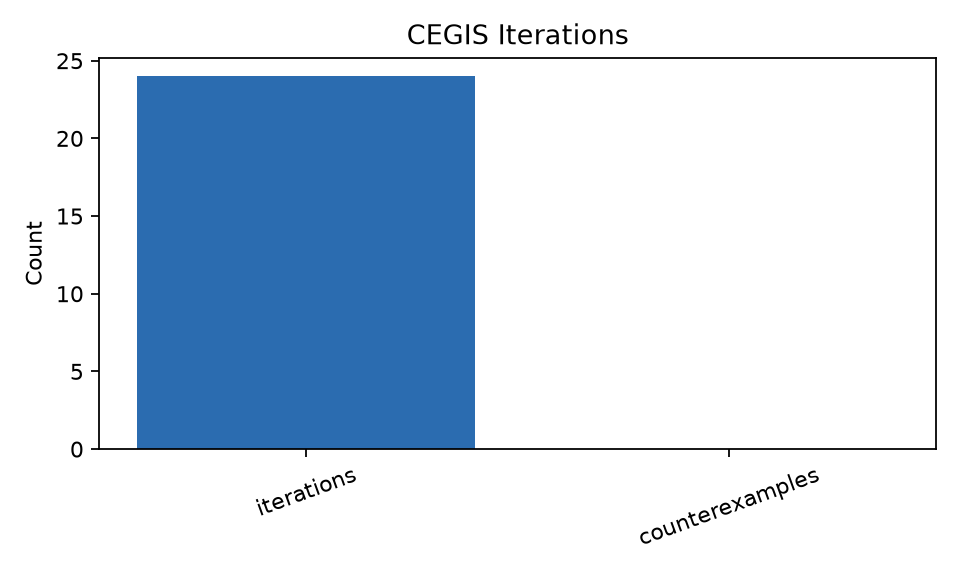
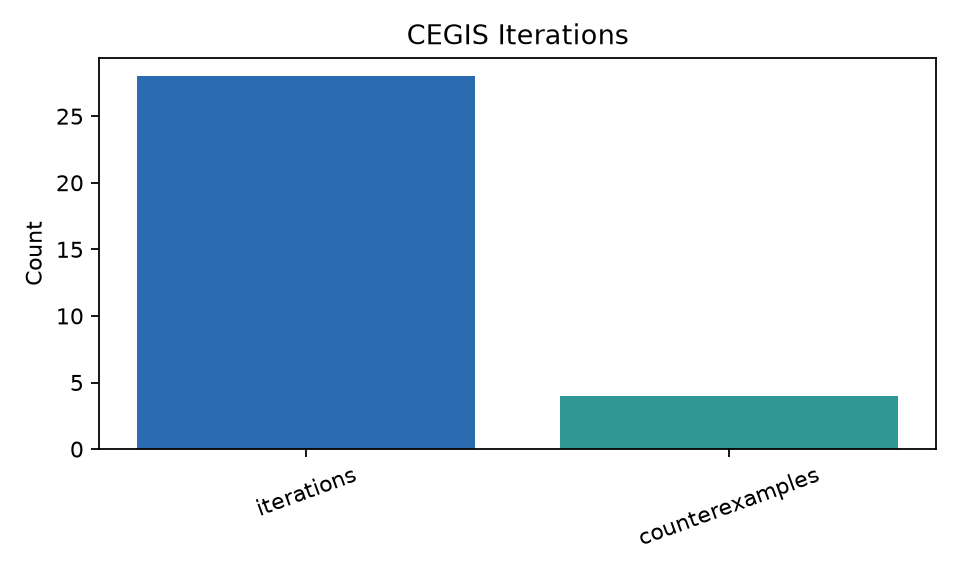
Add counterexample-refining blind CEGIS traces

diff --git a/docs/presentation/index.html b/docs/presentation/index.html
@@ -1236,7 +1236,7 @@ BO = inside R, PO or fanout outside R</pre>
     <section class="slide">
       <div class="slide-content two-column">
         <div><p class="eyebrow">Blind CEGIS</p><h2>Recover semantics without source labels</h2><ul class="large-list"><li>Audit blocks manifest family, operator, expression, bus, signedness, constants, and evaluation accuracy fields from inference.</li><li>Blind bus hypotheses are written before evaluation labels are joined.</li><li>Parametric templates are refined with counterexamples from exact region checks.</li><li>Timeouts and unsupported proofs remain unresolved.</li></ul></div>
-        <div class="metric-stack"><div><strong>488</strong><span>blind candidates</span></div><div><strong>24</strong><span>CEGIS iterations</span></div><div><strong>3</strong><span>formal region proofs</span></div></div>
+        <div class="metric-stack"><div><strong>488</strong><span>blind candidates</span></div><div><strong>28</strong><span>CEGIS iterations</span></div><div><strong>4</strong><span>counterexamples</span></div><div><strong>3</strong><span>formal region proofs</span></div></div>
       </div>
       <aside class="notes">This updates the older limitation: CEGIS is now implemented as a lightweight bounded phase. The main caveat is scalability: the committed run uses exhaustive exact proof because the SMT dependency was unavailable.</aside>
     </section>

diff --git a/tests/test_blind_semantic_cegis.py b/tests/test_blind_semantic_cegis.py
@@ -62,3 +62,16 @@ def test_expression_rtl_emission_from_parametric_candidate():
     assert rows[0]["generated_without_ground_truth"] == "true"
     assert rows[0]["rtl_text"]
     assert json.loads(rows[0]["expression_json"])["op"]
+
+
+def test_committed_cegis_trace_contains_counterexample_refinement():
+    path = Path(__file__).resolve().parents[1] / "results" / "blind_semantic_cegis" / "cegis_iterations.csv"
+    if not path.exists():
+        pytest.skip("blind CEGIS results have not been generated")
+    import csv
+
+    with path.open(newline="", encoding="utf-8") as fh:
+        rows = list(csv.DictReader(fh))
+    cex_rows = [row for row in rows if row["solver_status"] == "sat"]
+    assert cex_rows
+    assert all(int(row["examples_after"]) > int(row["examples_before"]) for row in cex_rows)

diff --git a/blind_semantic_cegis.py b/blind_semantic_cegis.py
@@ -291,7 +291,7 @@ def candidate_rows(region_id: str, input_buses: list[BlindBus], output_width: in
     return rows
 
 
-def _deterministic_examples(input_buses: list[BlindBus], *, count: int = 8) -> list[dict[str, int]]:
+def _deterministic_examples(input_buses: list[BlindBus], *, count: int = 1) -> list[dict[str, int]]:
     domains = [range(1 << min(bus.width, 4)) for bus in input_buses]
     examples = []
     for values in itertools.islice(itertools.product(*domains), count):

diff --git a/docs/blind_cegis_semantic_boundary_reconstruction.md b/docs/blind_cegis_semantic_boundary_reconstruction.md
@@ -70,7 +70,7 @@ result is preserved in `results/semantic_grafting/semantic_graft_funnel.csv`.
 ## Results
 
 Committed CSVs under `results/blind_semantic_cegis/` report 488 bounded
-parametric candidates, 24 CEGIS iterations, 3 formally verified regions by
+parametric candidates, 28 CEGIS iterations, 4 incorporated counterexamples, 3 formally verified regions by
 exhaustive region proof, 3 proven semantic expressions considered for grafting,
 and 0 accepted graph-active semantic grafts.
 

diff --git a/README.md b/README.md
@@ -2950,7 +2950,8 @@ make semantic-grafting-all
 Current committed lightweight metrics:
 
 - 488 blind parametric candidates.
-- 24 CEGIS iterations.
+- 28 CEGIS iterations.
+- 4 incorporated formal counterexamples.
 - 3 regions formally verified by exhaustive region proof.
 - 3 proven reconstructed expressions considered for semantic grafting.
 - 0 accepted graph-active semantic graft anchors.

diff --git a/results/blind_semantic_cegis/blind_semantic_recovery_summary.md b/results/blind_semantic_cegis/blind_semantic_recovery_summary.md
@@ -2,5 +2,5 @@
 
 - Primary mode: blind_parametric_cegis
 - Formally verified regions: 3
-- Counterexamples incorporated into later iterations: 0
+- Counterexamples incorporated into later iterations: 4
 - Timeouts and unsupported proofs are unresolved, never accepted.
